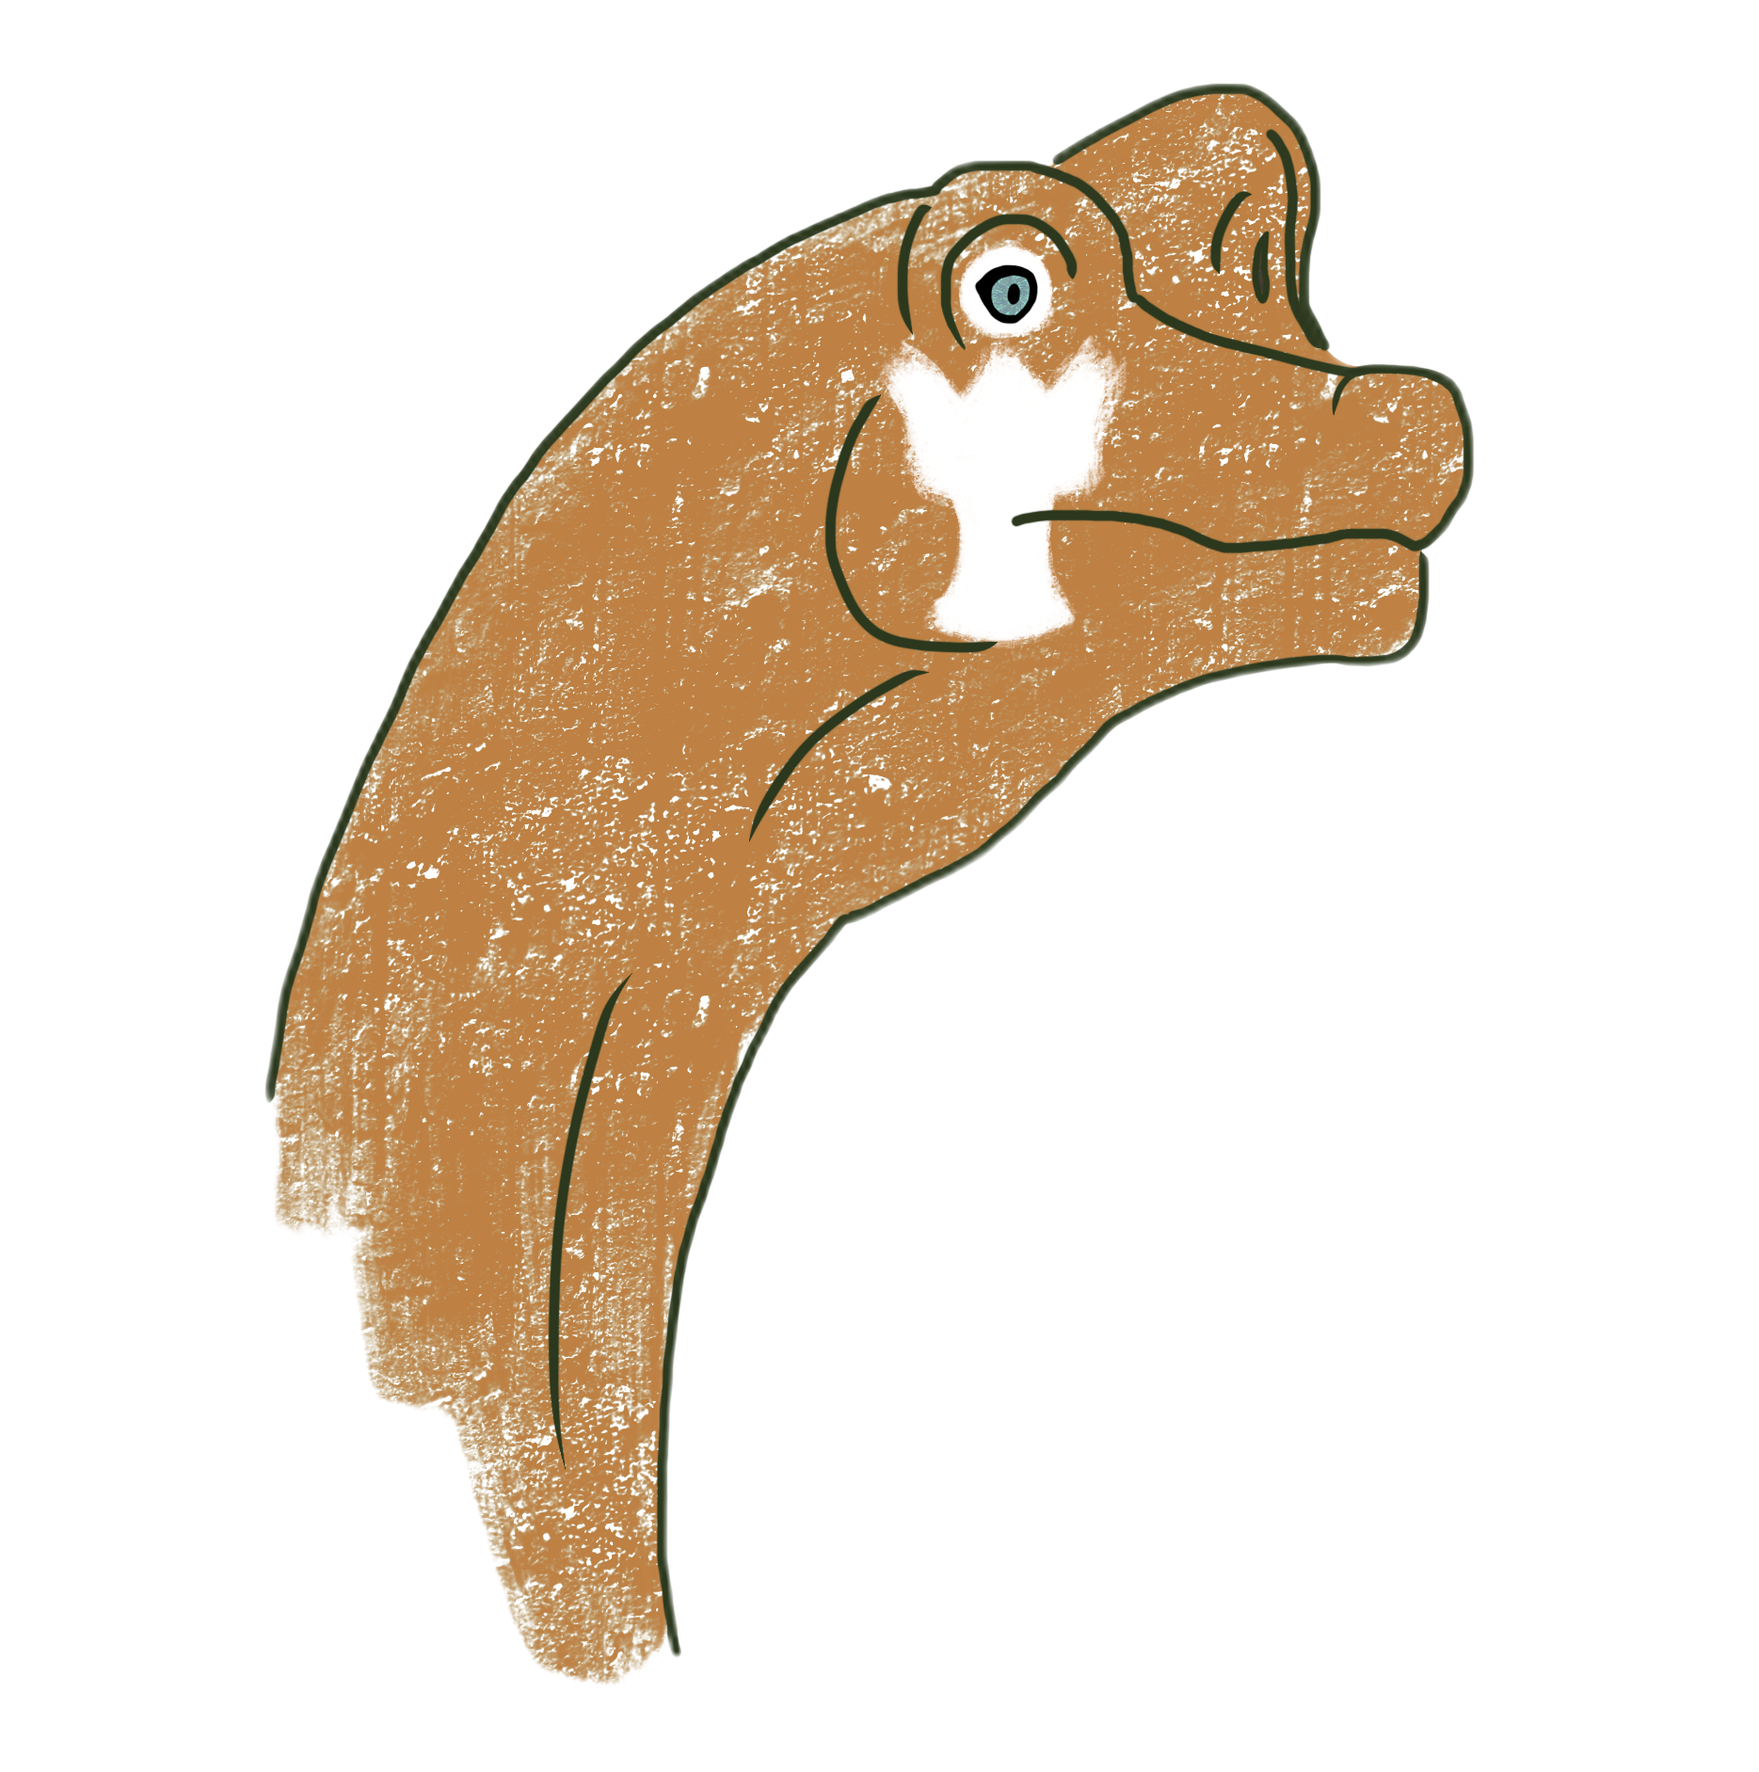
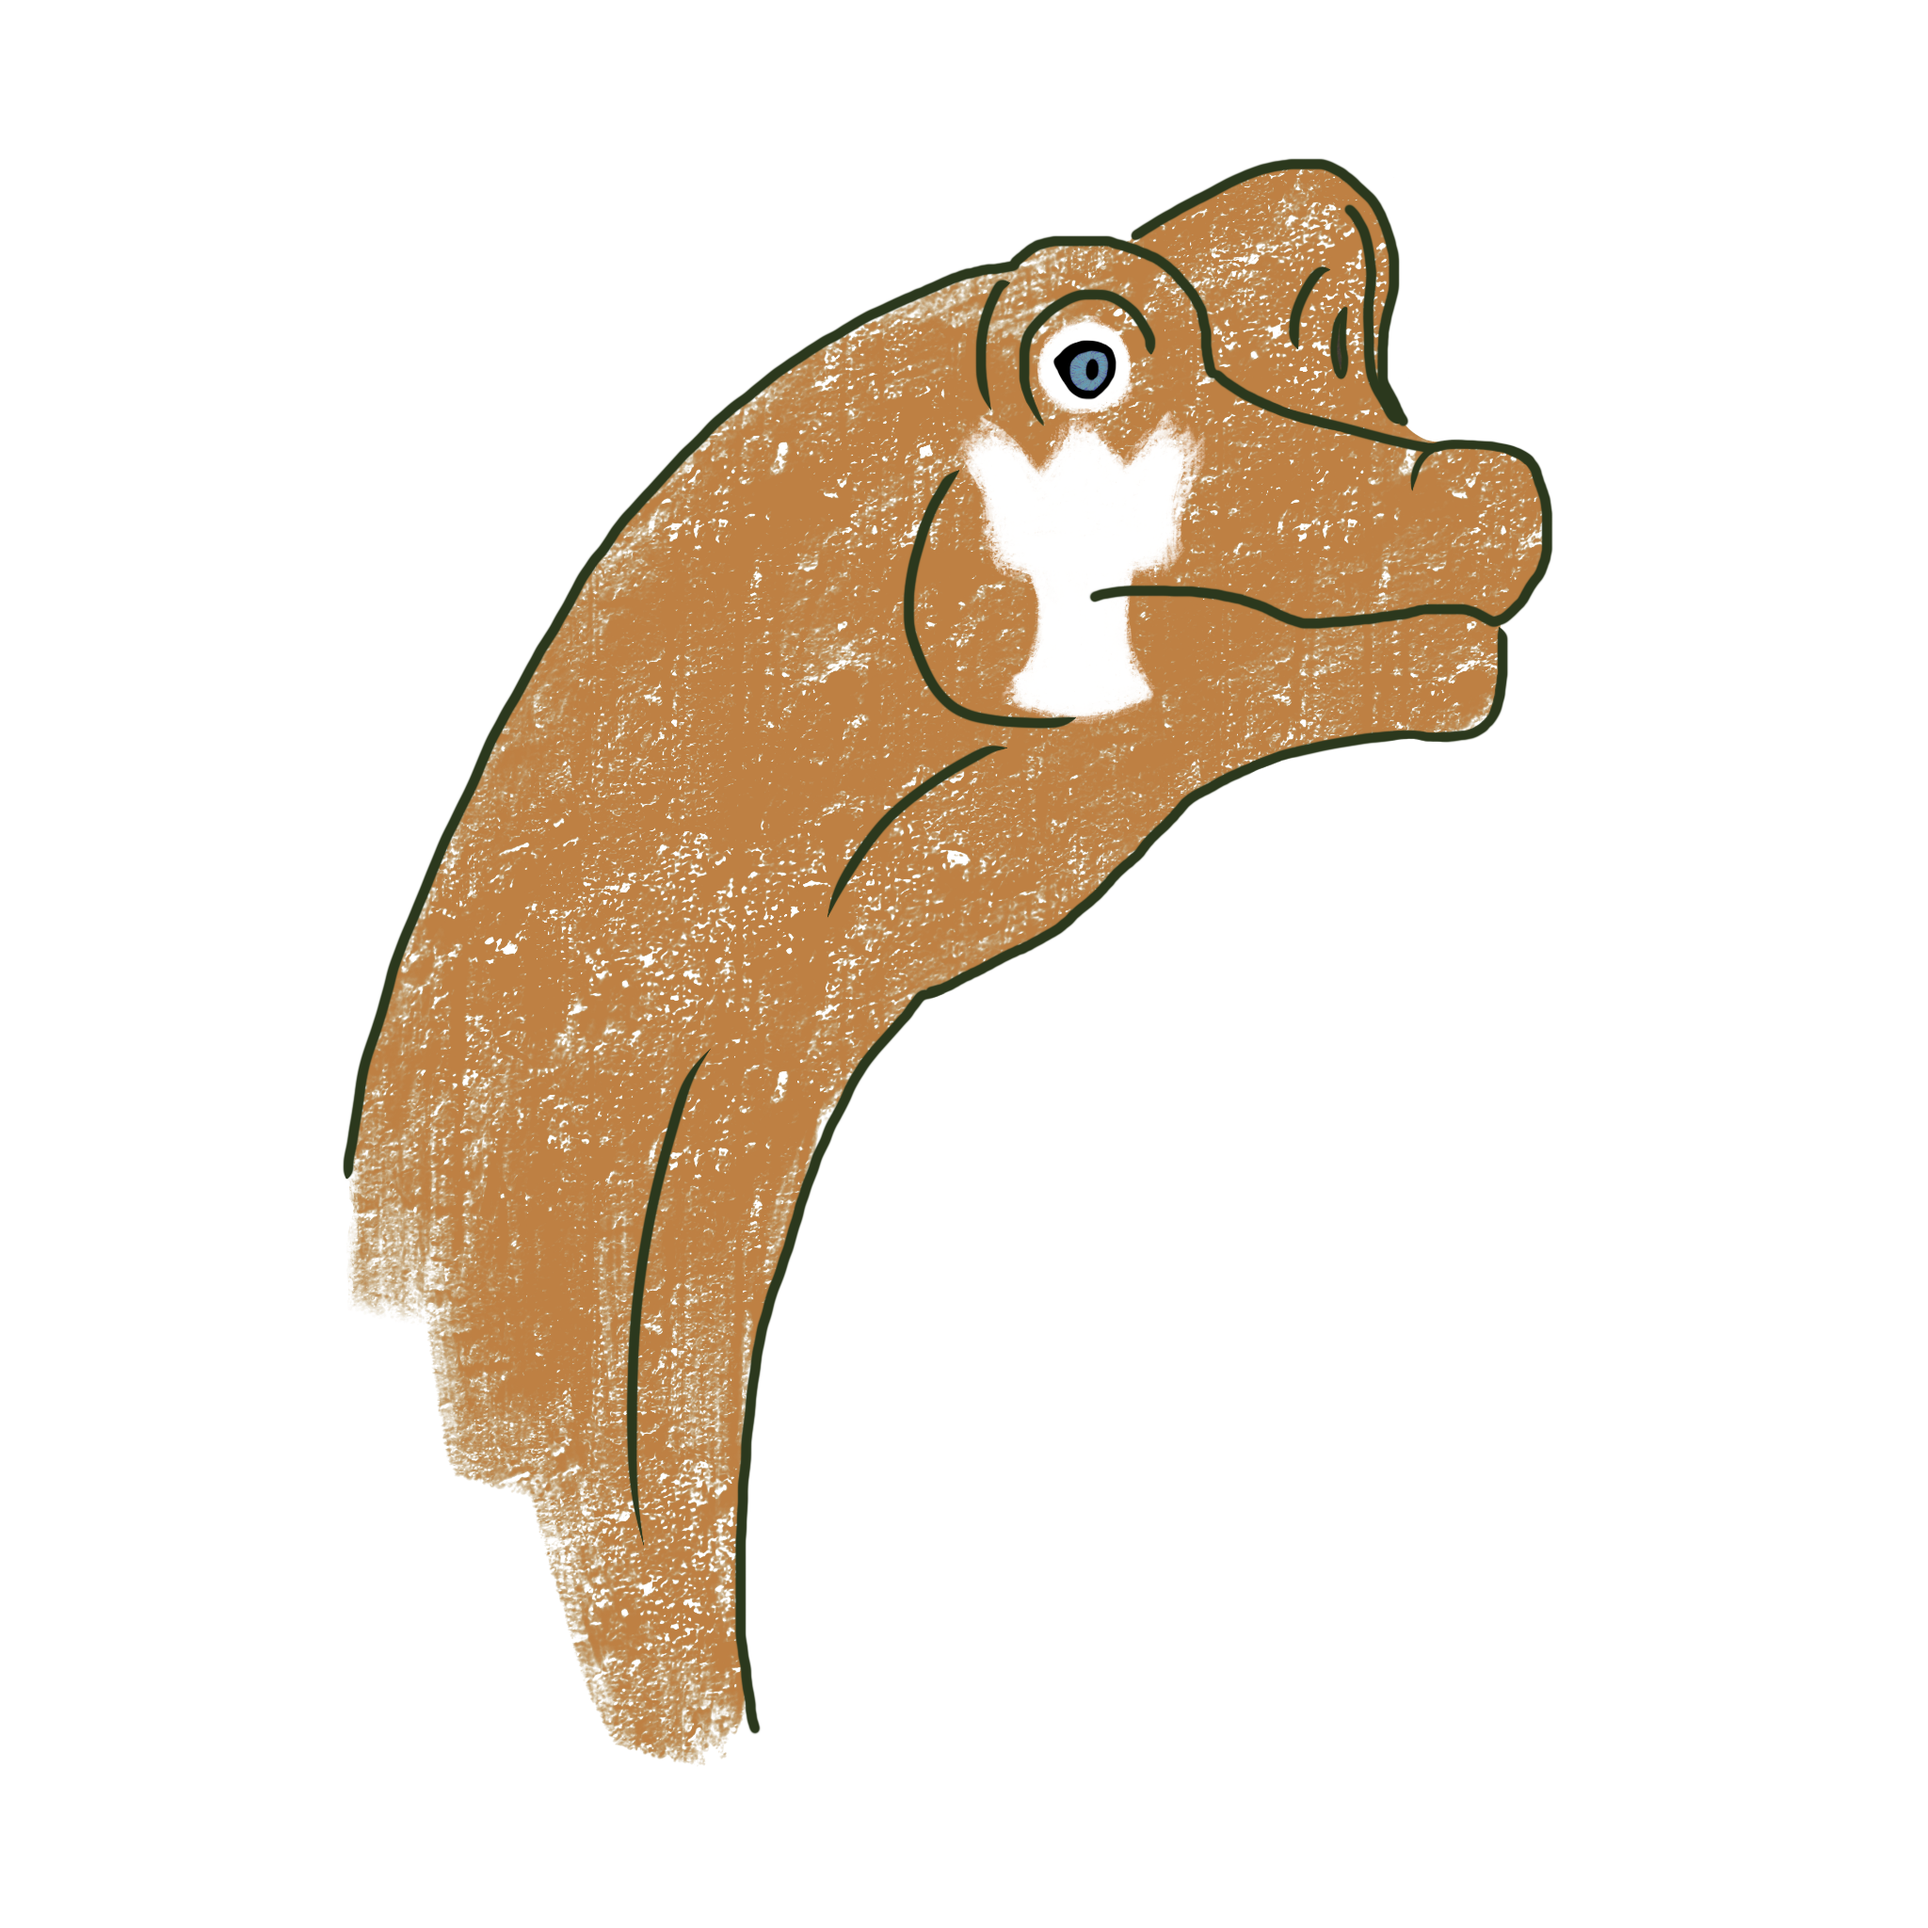
add change pieces image to mode toggle button and alternative piece colors

Changed region(s): [[0.1552, 0.0308, 0.8379, 0.9549]]

diff --git a/chess_django/table/static/table/table_interaction.js b/chess_django/table/static/table/table_interaction.js
@@ -1,6 +1,5 @@
 let moveListeners = [];  // To store event listeners for moves
 let intervalId;  // To manage interval for timers
-let style = "classic";  // Default style for pieces
 
 // Runs when the DOM content is fully loaded
 document.addEventListener('DOMContentLoaded', function () {
@@ -34,10 +33,16 @@ function colorBoard() {
 function setupWebSocket() {
     const tableID = JSON.parse(document.getElementById('table_id').textContent);
     const tableSocket = new WebSocket(`ws://${window.location.host}/ws/table/${tableID}/`);
+    let state;
+
+    const changeImagesButton = document.getElementById('theme');
+    changeImagesButton.addEventListener('click', () => {
+        renderBoard(tableSocket, state);
+    });
     
     // Handle incoming messages from the server
     tableSocket.onmessage = function(e) {
-        const state = JSON.parse(e.data);
+        state = JSON.parse(e.data);
         console.log(state)
     
         clearBoard();  // Clear board and listeners
@@ -291,7 +296,8 @@ function getImageSource(piece, player) {
         "queen": {"white": "Queen_white",  "black": "Queen_black"},
         "king": {"white": "King_white",  "black": "King_black"}
     };
-    const prefix = style === "classic" ? "" : "d";
+    const iFclassic = document.documentElement.classList.contains('classic-mode')
+    const prefix = iFclassic ? "" : "d";
     if (piece in pieceImages && player in pieceImages[piece]) {
         return `<img src="/static/table/pieces_images/${prefix}${pieceImages[piece][player]}.png" class="pieceImage" alt="${pieceImages[piece][player]}">`;
     } else {

diff --git a/chess_django/menu/static/menu/styles_layout.css b/chess_django/menu/static/menu/styles_layout.css
@@ -10,14 +10,14 @@
     --width-big-screen: calc(100% - var(--sidebar-expanded-width));
     --width-medium-screen: calc(100% - var(--sidebar-width));
     --width-small-screen: 100%;
-    --background-color: rgb(54, 54, 54);
 }
 
 :root.classic-mode {
     --primary-bg-color: #12171e;
+    --classic-background-color: rgb(54, 54, 54);
 
     #main-content {
-        background: var(--background-color);
+        background: var(--classic-background-color);
     }
 }
 
@@ -186,7 +186,6 @@
     background-size: cover;
     background-position: center;
     background-repeat: no-repeat;
-    background-color: var(--background-color);
     left: var(--sidebar-expanded-width);
     width: var(--width-big-screen);
     min-height: 100vh;
